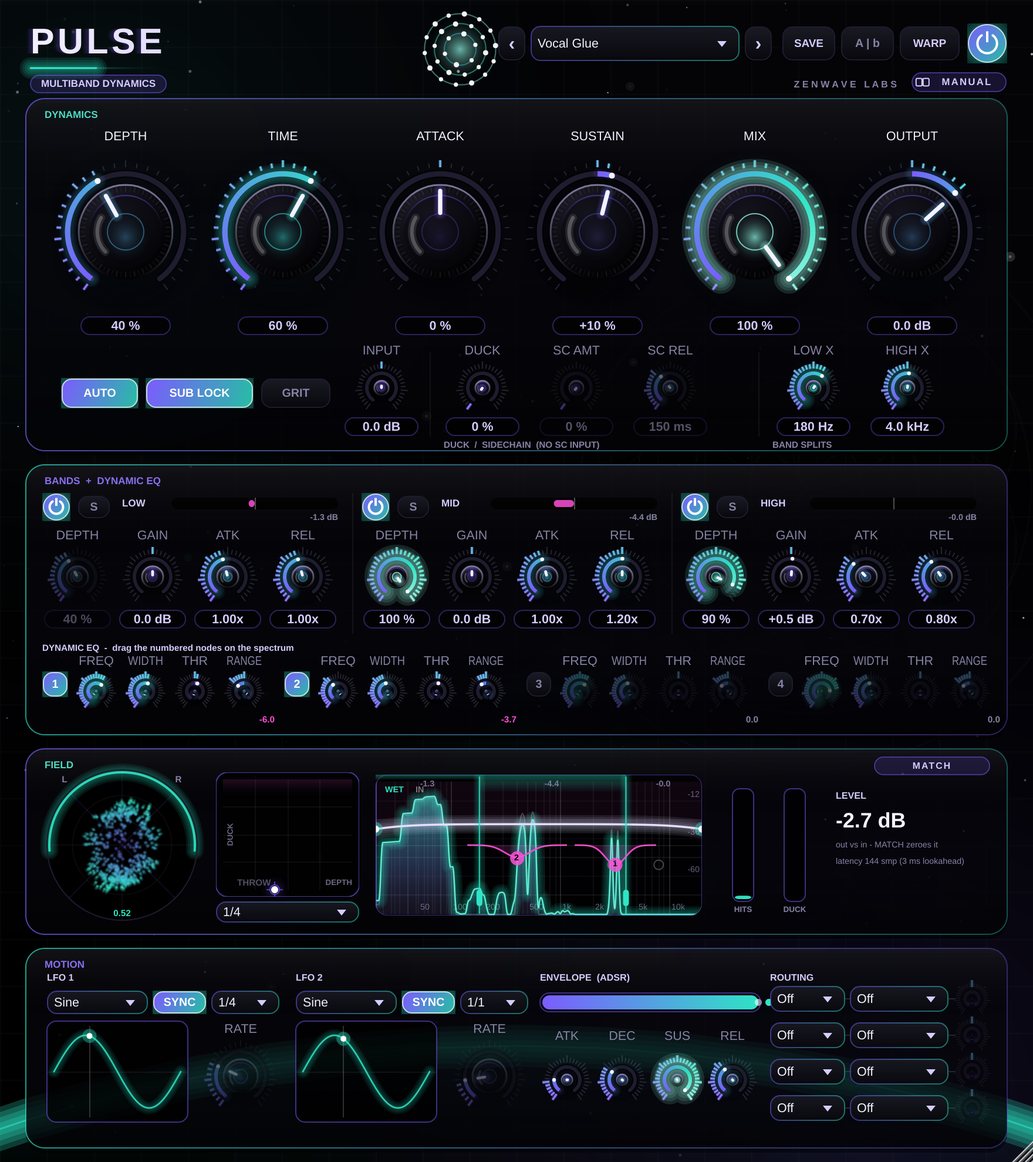
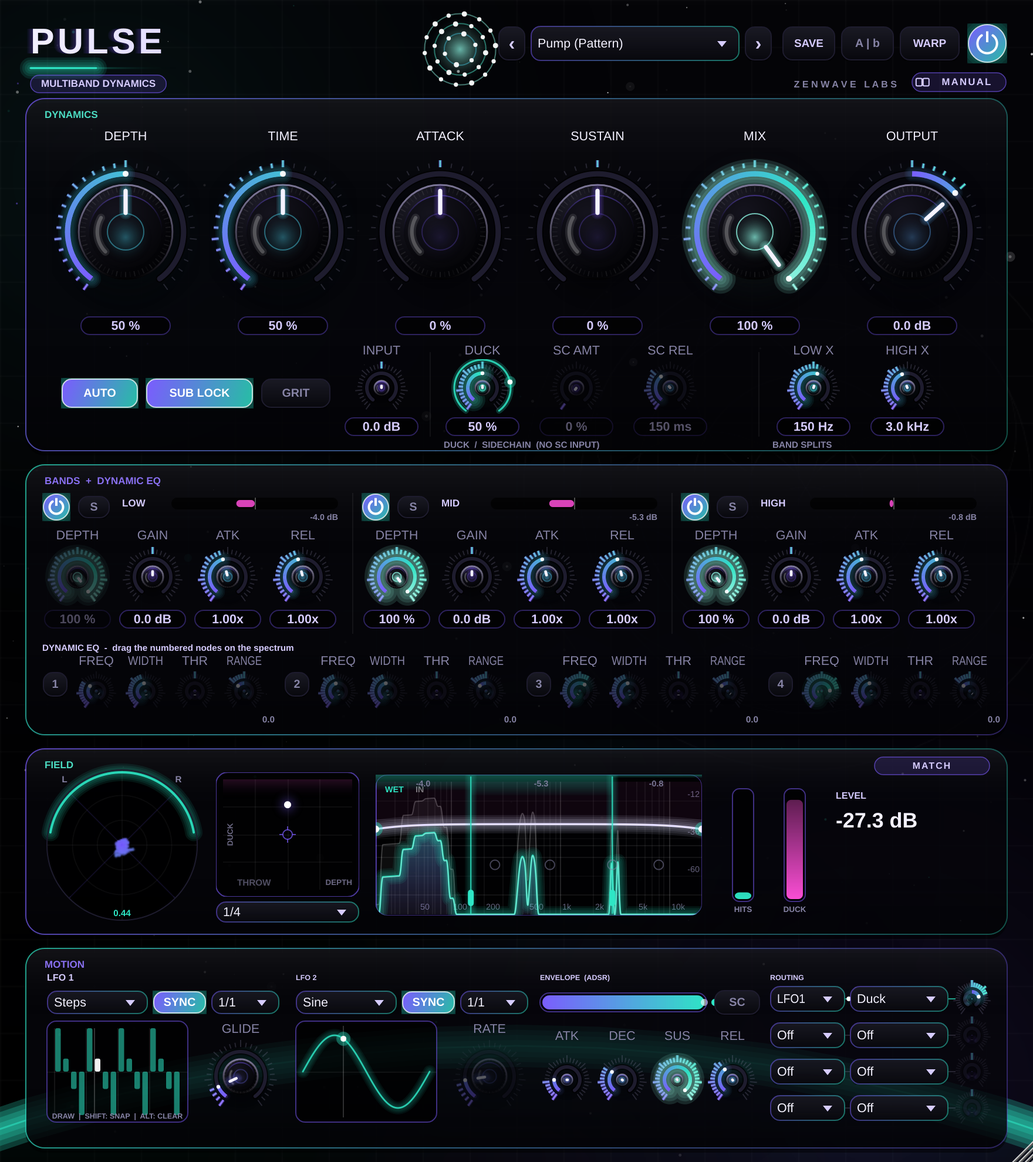
Sidechain input on every plugin; knobs pulse with modulation; Pulse LEVEL cleanup
- Drift, Umbra, Core now have a Sidechain bus (Pulse already did)
- Motion envelope: SC toggle switches its source to the sidechain input, so another track can drive
  any routed knob; status text shows SC CONNECTED / NO SC INPUT
- Umbra: with SC on, DUCK and BLOOM follow the sidechain instead of the dry input
- Knob halo / reactor core / arc glow follow the modulated value when a knob is a live target
- Pulse: removed the helper lines under LEVEL
- QA + tests pass on all four

Claude-Session: https://claude.ai/code/session_017QkTniK1NEuAZXzt6zeDH9

diff --git a/libs/zenwave_ui/include/zenwave_ui/Modulation.h b/libs/zenwave_ui/include/zenwave_ui/Modulation.h
@@ -23,6 +23,7 @@ struct ModIDs
     static constexpr auto envDecay   = "envdecay";
     static constexpr auto envSustain = "envsustain";
     static constexpr auto envRelease = "envrelease";
+    static constexpr auto envSource  = "envsource";   // 0 = this plugin's input, 1 = sidechain input
     static juce::String slotSrc(int i) { return "mod" + juce::String(i + 1) + "src"; }
     static juce::String slotDst(int i) { return "mod" + juce::String(i + 1) + "dst"; }
     static juce::String slotAmt(int i) { return "mod" + juce::String(i + 1) + "amt"; }
@@ -54,6 +55,7 @@ inline void addModParams(std::vector<std::unique_ptr<juce::RangedAudioParameter>
     auto ms = [](float v, int) { return v < 100.0f ? juce::String(v, 1) + " ms" : juce::String(juce::roundToInt(v)) + " ms"; };
     params.push_back(std::make_unique<P>(juce::ParameterID{ ModIDs::envAttack, 1 }, "Env Attack", Rng{ 0.5f, 500.0f, 0.1f, 0.4f }, 8.0f, juce::AudioParameterFloatAttributes().withStringFromValueFunction(ms)));
     params.push_back(std::make_unique<P>(juce::ParameterID{ ModIDs::envRelease, 1 }, "Env Release", Rng{ 10.0f, 2000.0f, 0.1f, 0.4f }, 180.0f, juce::AudioParameterFloatAttributes().withStringFromValueFunction(ms)));
+    params.push_back(std::make_unique<C>(juce::ParameterID{ ModIDs::envSource, 1 }, "Env Source", juce::StringArray{ "Input", "Sidechain" }, 0));
     params.push_back(std::make_unique<P>(juce::ParameterID{ ModIDs::envDecay, 1 }, "Env Decay", Rng{ 5.0f, 2000.0f, 0.1f, 0.4f }, 120.0f, juce::AudioParameterFloatAttributes().withStringFromValueFunction(ms)));
     params.push_back(std::make_unique<P>(juce::ParameterID{ ModIDs::envSustain, 1 }, "Env Sustain", Rng{ 0.0f, 1.0f, 0.001f }, 1.0f,
         juce::AudioParameterFloatAttributes().withStringFromValueFunction([](float v, int) { return juce::String(juce::roundToInt(v * 100)) + " %"; })));
@@ -128,6 +130,7 @@ public:
         }
         envAttack = apvts.getRawParameterValue(ModIDs::envAttack);
         envDecay = apvts.getRawParameterValue(ModIDs::envDecay);
+        envSource = apvts.getRawParameterValue(ModIDs::envSource);
         envSustain = apvts.getRawParameterValue(ModIDs::envSustain);
         envRelease = apvts.getRawParameterValue(ModIDs::envRelease);
         for (int i = 0; i < ModIDs::kSlots; ++i)
@@ -141,8 +144,12 @@ public:
     void prepare(double sampleRate) { sr = sampleRate; env = 0.0f; adsr = 0.0f; gate = false; stage = 0; slowPeak = 0.05f; for (auto& l : lfo) { l.phase = 0.0; l.rnd = 0.0f; l.rndTarget = 0.0f; l.rndPrev = 0.0f; } rng.setSeed(1234); }
 
     // Advance sources over one sub-block of input. ppq/playing come from the host transport.
-    void process(const float* inL, const float* inR, int n, double bpm, double ppq, bool playing)
+    // scL/scR: the plugin's sidechain input for this sub-block (null when none is connected).
+    void process(const float* inL, const float* inR, int n, double bpm, double ppq, bool playing,
+                 const float* scL = nullptr, const float* scR = nullptr)
     {
+        scPresent.store(scL != nullptr);
+        if (envSource->load() > 0.5f && scL != nullptr) { inL = scL; inR = scR ? scR : scL; }
         // Input-triggered ADSR: a fast peak follower, normalised by a slow running peak (so it self-adjusts to
         // any input level), opens a gate; the envelope then runs Attack -> Decay -> Sustain while the gate is
         // open and Release when it closes. Retriggers on new hits.
@@ -265,10 +272,11 @@ private:
     struct Lfo { std::atomic<float>* shape{}, * sync{}, * div{}, * rate{}; std::atomic<float>* stepP[ModIDs::kSteps] {}; std::atomic<float>* glideP{}; double phase = 0; float rnd = 0, rndTarget = 0, rndPrev = 0, smooth = 0; int cycleCount = 0; std::atomic<float> phaseVis { 0.0f }; std::atomic<int> stepVis { 0 }; };
     struct Slot { std::atomic<float>* src{}, * dst{}, * amt{}; };
     Lfo lfo[2]; Slot slot[ModIDs::kSlots];
-    std::atomic<float>* envAttack{}, * envRelease{}, * envDecay{}, * envSustain{};
+    std::atomic<float>* envAttack{}, * envRelease{}, * envDecay{}, * envSustain{}, * envSource{};
     float adsr = 0.0f, slowPeak = 0.05f; bool gate = false; int stage = 0;
 public:
-    std::atomic<bool> gateVis { false };
+    std::atomic<bool> gateVis { false }, scPresent { false };
+    bool usingSidechain() const { return envSource->load() > 0.5f; }
 private:
     std::array<juce::RangedAudioParameter*, kMaxTargets> target {};
     std::array<float, kMaxTargets> offset {}, plain {};

diff --git a/plugins/umbra/src/PluginProcessor.cpp b/plugins/umbra/src/PluginProcessor.cpp
@@ -13,7 +13,8 @@ static const char* kIds[23] = {
 UmbraAudioProcessor::UmbraAudioProcessor()
     : AudioProcessor(BusesProperties()
                          .withInput("Input", juce::AudioChannelSet::stereo(), true)
-                         .withOutput("Output", juce::AudioChannelSet::stereo(), true)),
+                         .withOutput("Output", juce::AudioChannelSet::stereo(), true)
+                         .withInput("Sidechain", juce::AudioChannelSet::stereo(), false)),
       apvts(*this, nullptr, "PARAMS", createLayout())
 {
     for (int i = 0; i < 23; ++i) p[i] = apvts.getRawParameterValue(kIds[i]);
@@ -103,7 +104,9 @@ bool UmbraAudioProcessor::isBusesLayoutSupported(const BusesLayout& layouts) con
     const auto& out = layouts.getMainOutputChannelSet();
     const auto& in  = layouts.getMainInputChannelSet();
     if (out != juce::AudioChannelSet::mono() && out != juce::AudioChannelSet::stereo()) return false;
-    return in == out || (in == juce::AudioChannelSet::mono() && out == juce::AudioChannelSet::stereo());
+    if (! (in == out || (in == juce::AudioChannelSet::mono() && out == juce::AudioChannelSet::stereo()))) return false;
+    const auto& sc = layouts.getChannelSet(true, 1);
+    return sc.isDisabled() || sc == juce::AudioChannelSet::mono() || sc == juce::AudioChannelSet::stereo();
 }
 
 void UmbraAudioProcessor::updateEngineParams()
@@ -133,12 +136,18 @@ void UmbraAudioProcessor::processBlock(juce::AudioBuffer<float>& buffer, juce::M
 {
     juce::ScopedNoDenormals noDenormals;
     hostBpm = zwui::readTransport(*this, motion, hostBpm);
+    const float* scL = nullptr; const float* scR = nullptr;
+    if (getBusCount(true) > 1 && getBus(true, 1)->isEnabled())
+    {
+        auto sc = getBusBuffer(buffer, true, 1);
+        if (sc.getNumChannels() > 0) { scL = sc.getReadPointer(0); scR = sc.getNumChannels() > 1 ? sc.getReadPointer(1) : scL; }
+    }
     meterIn.push(buffer, motion.levelIn);
     spectrumIn.push(buffer);
     const int n = buffer.getNumSamples();
-    const int numIn = getTotalNumInputChannels(), numOut = getTotalNumOutputChannels();
+    const int numIn = getMainBusNumInputChannels(), numOut = getTotalNumOutputChannels();
     power.begin(buffer, p[13]->load() > 0.5f);
-    if (power.skipProcessing()) { mod.process(buffer.getReadPointer(0), numIn > 1 ? buffer.getReadPointer(1) : nullptr, n, hostBpm, motion.ppq.load(), motion.playing.load()); updateEngineParams(); motion.levelOut.store(0.0f); return; }
+    if (power.skipProcessing()) { mod.process(buffer.getReadPointer(0), numIn > 1 ? buffer.getReadPointer(1) : nullptr, n, hostBpm, motion.ppq.load(), motion.playing.load(), scL, scR); updateEngineParams(); motion.levelOut.store(0.0f); return; }
     if (numOut >= 2 && numIn == 1) buffer.copyFrom(1, 0, buffer, 0, 0, n);
 
     constexpr int kSub = 64;
@@ -147,7 +156,7 @@ void UmbraAudioProcessor::processBlock(juce::AudioBuffer<float>& buffer, juce::M
     for (int start = 0; start < n; start += kSub)
     {
         const int len = juce::jmin(kSub, n - start);
-        mod.process(buffer.getReadPointer(0, start), numOut >= 2 ? buffer.getReadPointer(1, start) : nullptr, len, hostBpm, ppq, playing);
+        mod.process(buffer.getReadPointer(0, start), numOut >= 2 ? buffer.getReadPointer(1, start) : nullptr, len, hostBpm, ppq, playing, scL ? scL + start : nullptr, scR ? scR + start : nullptr);
         pad.process(len, hostBpm);
         {
             const double ppqEnd = playing ? ppq + len / currentSampleRate * hostBpm / 60.0 : ppq;
@@ -156,7 +165,8 @@ void UmbraAudioProcessor::processBlock(juce::AudioBuffer<float>& buffer, juce::M
         }
         updateEngineParams();
         if (wetScratch.getNumSamples() >= n) engine.setWetTap(wetScratch.getWritePointer(0, start), wetScratch.getWritePointer(1, start));
-        if (numOut >= 2) engine.process(buffer.getWritePointer(0, start), buffer.getWritePointer(1, start), len);
+        const bool scDuck = mod.usingSidechain() && scL != nullptr;
+        if (numOut >= 2) engine.process(buffer.getWritePointer(0, start), buffer.getWritePointer(1, start), len, scDuck ? scL + start : nullptr, scDuck ? scR + start : nullptr);
         else if (numOut == 1) engine.processMono(buffer.getWritePointer(0, start), len);
         engine.setWetTap(nullptr, nullptr);
         if (playing) ppq += len / currentSampleRate * hostBpm / 60.0;

diff --git a/plugins/core/src/PluginProcessor.cpp b/plugins/core/src/PluginProcessor.cpp
@@ -6,7 +6,8 @@ using APVTS = juce::AudioProcessorValueTreeState;
 CoreAudioProcessor::CoreAudioProcessor()
     : AudioProcessor(BusesProperties()
                          .withInput("Input", juce::AudioChannelSet::stereo(), true)
-                         .withOutput("Output", juce::AudioChannelSet::stereo(), true)),
+                         .withOutput("Output", juce::AudioChannelSet::stereo(), true)
+                         .withInput("Sidechain", juce::AudioChannelSet::stereo(), false)),
       apvts(*this, nullptr, "PARAMS", createLayout())
 {
     pOutput = apvts.getRawParameterValue(ParamIDs::output);
@@ -117,7 +118,9 @@ bool CoreAudioProcessor::isBusesLayoutSupported(const BusesLayout& layouts) cons
     const auto& out = layouts.getMainOutputChannelSet();
     const auto& in  = layouts.getMainInputChannelSet();
     if (out != juce::AudioChannelSet::mono() && out != juce::AudioChannelSet::stereo()) return false;
-    return in == out || (in == juce::AudioChannelSet::mono() && out == juce::AudioChannelSet::stereo());
+    if (! (in == out || (in == juce::AudioChannelSet::mono() && out == juce::AudioChannelSet::stereo()))) return false;
+    const auto& sc = layouts.getChannelSet(true, 1);
+    return sc.isDisabled() || sc == juce::AudioChannelSet::mono() || sc == juce::AudioChannelSet::stereo();
 }
 
 void CoreAudioProcessor::updateEngineParams()
@@ -155,12 +158,18 @@ void CoreAudioProcessor::processBlock(juce::AudioBuffer<float>& buffer, juce::Mi
 {
     juce::ScopedNoDenormals noDenormals;
     hostBpm = zwui::readTransport(*this, motion, hostBpm);
+    const float* scL = nullptr; const float* scR = nullptr;
+    if (getBusCount(true) > 1 && getBus(true, 1)->isEnabled())
+    {
+        auto sc = getBusBuffer(buffer, true, 1);
+        if (sc.getNumChannels() > 0) { scL = sc.getReadPointer(0); scR = sc.getNumChannels() > 1 ? sc.getReadPointer(1) : scL; }
+    }
     meterIn.push(buffer, motion.levelIn);
     spectrumIn.push(buffer);
     const int n = buffer.getNumSamples();
-    const int numIn = getTotalNumInputChannels(), numOut = getTotalNumOutputChannels();
+    const int numIn = getMainBusNumInputChannels(), numOut = getTotalNumOutputChannels();
     power.begin(buffer, pPower->load() > 0.5f);
-    if (power.skipProcessing()) { mod.process(buffer.getReadPointer(0), numIn > 1 ? buffer.getReadPointer(1) : nullptr, n, hostBpm, motion.ppq.load(), motion.playing.load()); updateEngineParams(); motion.levelOut.store(0.0f); return; }
+    if (power.skipProcessing()) { mod.process(buffer.getReadPointer(0), numIn > 1 ? buffer.getReadPointer(1) : nullptr, n, hostBpm, motion.ppq.load(), motion.playing.load(), scL, scR); updateEngineParams(); motion.levelOut.store(0.0f); return; }
     if (numOut >= 2 && numIn == 1) buffer.copyFrom(1, 0, buffer, 0, 0, n);
 
     constexpr int kSub = 64;
@@ -169,7 +178,7 @@ void CoreAudioProcessor::processBlock(juce::AudioBuffer<float>& buffer, juce::Mi
     for (int start = 0; start < n; start += kSub)
     {
         const int len = juce::jmin(kSub, n - start);
-        mod.process(buffer.getReadPointer(0, start), numOut >= 2 ? buffer.getReadPointer(1, start) : nullptr, len, hostBpm, ppq, playing);
+        mod.process(buffer.getReadPointer(0, start), numOut >= 2 ? buffer.getReadPointer(1, start) : nullptr, len, hostBpm, ppq, playing, scL ? scL + start : nullptr, scR ? scR + start : nullptr);
         pad.process(len, hostBpm);
         updateEngineParams();
         if (wetScratch.getNumSamples() >= n) engine.setWetTap(wetScratch.getWritePointer(0, start), wetScratch.getWritePointer(1, start));

diff --git a/plugins/drift/src/PluginProcessor.cpp b/plugins/drift/src/PluginProcessor.cpp
@@ -7,7 +7,8 @@ using APVTS = juce::AudioProcessorValueTreeState;
 DriftAudioProcessor::DriftAudioProcessor()
     : AudioProcessor(BusesProperties()
                          .withInput("Input", juce::AudioChannelSet::stereo(), true)
-                         .withOutput("Output", juce::AudioChannelSet::stereo(), true)),
+                         .withOutput("Output", juce::AudioChannelSet::stereo(), true)
+                         .withInput("Sidechain", juce::AudioChannelSet::stereo(), false)),
       apvts(*this, nullptr, "PARAMS", createLayout())
 {
     pTime     = apvts.getRawParameterValue(ParamIDs::time);
@@ -137,7 +138,9 @@ bool DriftAudioProcessor::isBusesLayoutSupported(const BusesLayout& layouts) con
     const auto& out = layouts.getMainOutputChannelSet();
     const auto& in  = layouts.getMainInputChannelSet();
     if (out != juce::AudioChannelSet::mono() && out != juce::AudioChannelSet::stereo()) return false;
-    return in == out || (in == juce::AudioChannelSet::mono() && out == juce::AudioChannelSet::stereo());
+    if (! (in == out || (in == juce::AudioChannelSet::mono() && out == juce::AudioChannelSet::stereo()))) return false;
+    const auto& sc = layouts.getChannelSet(true, 1);
+    return sc.isDisabled() || sc == juce::AudioChannelSet::mono() || sc == juce::AudioChannelSet::stereo();
 }
 
 float DriftAudioProcessor::syncedTimeMs() const
@@ -198,15 +201,21 @@ void DriftAudioProcessor::processBlock(juce::AudioBuffer<float>& buffer, juce::M
     juce::ScopedNoDenormals noDenormals;
 
     hostBpm = zwui::readTransport(*this, motion, hostBpm);
+    const float* scL = nullptr; const float* scR = nullptr;
+    if (getBusCount(true) > 1 && getBus(true, 1)->isEnabled())
+    {
+        auto sc = getBusBuffer(buffer, true, 1);
+        if (sc.getNumChannels() > 0) { scL = sc.getReadPointer(0); scR = sc.getNumChannels() > 1 ? sc.getReadPointer(1) : scL; }
+    }
     meterIn.push(buffer, motion.levelIn);
     spectrumIn.push(buffer);
 
     const int n = buffer.getNumSamples();
-    const int numIn = getTotalNumInputChannels();
+    const int numIn = getMainBusNumInputChannels();
     const int numOut = getTotalNumOutputChannels();
 
     power.begin(buffer, pPower->load() > 0.5f);
-    if (power.skipProcessing()) { mod.process(buffer.getReadPointer(0), numIn > 1 ? buffer.getReadPointer(1) : nullptr, n, hostBpm, motion.ppq.load(), motion.playing.load()); updateEngineParams(); motion.levelOut.store(0.0f); return; }
+    if (power.skipProcessing()) { mod.process(buffer.getReadPointer(0), numIn > 1 ? buffer.getReadPointer(1) : nullptr, n, hostBpm, motion.ppq.load(), motion.playing.load(), scL, scR); updateEngineParams(); motion.levelOut.store(0.0f); return; }
 
     if (numOut >= 2 && numIn == 1) buffer.copyFrom(1, 0, buffer, 0, 0, n);
 
@@ -217,7 +226,7 @@ void DriftAudioProcessor::processBlock(juce::AudioBuffer<float>& buffer, juce::M
     for (int start = 0; start < n; start += kSub)
     {
         const int len = juce::jmin(kSub, n - start);
-        mod.process(buffer.getReadPointer(0, start), numOut >= 2 ? buffer.getReadPointer(1, start) : nullptr, len, hostBpm, ppq, playing);
+        mod.process(buffer.getReadPointer(0, start), numOut >= 2 ? buffer.getReadPointer(1, start) : nullptr, len, hostBpm, ppq, playing, scL ? scL + start : nullptr, scR ? scR + start : nullptr);
         pad.process(len, hostBpm);
         {
             const double ppqEnd = playing ? ppq + len / currentSampleRate * hostBpm / 60.0 : ppq;

diff --git a/libs/zenwave_ui/include/zenwave_ui/ModPanel.h b/libs/zenwave_ui/include/zenwave_ui/ModPanel.h
@@ -30,6 +30,9 @@ public:
             L.divAttach = std::make_unique<juce::AudioProcessorValueTreeState::ComboBoxAttachment>(apvts, ModIDs::lfoDiv(i), L.div);
             L.rate.init(*this, apvts, ModIDs::lfoRate(i).toRawUTF8(), "RATE", false, false);
         }
+        addAndMakeVisible(envSrc);
+        envSrc.setTooltip("SC: the envelope listens to the sidechain input instead of this plugin's own input. Route a kick or any other channel to the sidechain in your DAW and it can drive any knob here (and Umbra's DUCK).");
+        envSrcAttach = std::make_unique<juce::AudioProcessorValueTreeState::ButtonAttachment>(apvts, ModIDs::envSource, envSrc);
         attack.init(*this, apvts, ModIDs::envAttack, "ATK", false, false);
         decay.init(*this, apvts, ModIDs::envDecay, "DEC", false, false);
         sustain.init(*this, apvts, ModIDs::envSustain, "SUS", false, false);
@@ -100,7 +103,8 @@ public:
         const int ex = S(438);
         Knob* envK[4] = { &attack, &decay, &sustain, &release };
         for (int k = 0; k < 4; ++k) envK[k]->layout(ex + S(k * 47), S(82), S(46), S(60), S(11));
-        envMeter = juce::Rectangle<float>(float(ex), S(38.0f), S(188.0f), S(16.0f));
+        envMeter = juce::Rectangle<float>(float(ex), S(38.0f), S(142.0f), S(16.0f));
+        envSrc.setBounds(ex + S(148), S(35), S(40), S(22));
         for (int i = 0; i < ModIDs::kSlots; ++i)
         {
             auto& Sl = slot[i]; const int y = S(32 + i * 31);
@@ -139,6 +143,7 @@ public:
             drawLfoScope(g, L.scope, i, s);
         }
         g.setColour(lnf.accentHi); g.drawText("ENVELOPE  (ADSR)", envMeter.withY(18.0f * s).withHeight(14.0f * s), juce::Justification::centredLeft);
+        if (mod.usingSidechain()) { g.setColour(mod.scPresent.load() ? lnf.accent2 : Palette::magenta); g.setFont(juce::Font(juce::FontOptions(7.5f * s, juce::Font::bold))); g.drawText(mod.scPresent.load() ? "SC CONNECTED" : "NO SC INPUT", juce::Rectangle<float>(envMeter.getX() + 92.0f * s, 18.0f * s, 100.0f * s, 14.0f * s), juce::Justification::centredLeft); }
         drawEnvMeter(g, envMeter, s);
         g.setColour(lnf.accentHi); g.drawText("ROUTING", juce::Rectangle<float>(634.0f * s, 18.0f * s, 150.0f * s, 14.0f * s), juce::Justification::centredLeft);
         // slot connector lines: src → dst → amount, lit when active
@@ -242,6 +247,7 @@ private:
     struct SlotUI { juce::ComboBox src, dst; Knob amt; std::unique_ptr<juce::AudioProcessorValueTreeState::ComboBoxAttachment> srcAttach, dstAttach; };
     LfoUI lfo[2]; SlotUI slot[ModIDs::kSlots];
     Knob attack, decay, sustain, release;
+    juce::ToggleButton envSrc { "SC" }; std::unique_ptr<juce::AudioProcessorValueTreeState::ButtonAttachment> envSrcAttach;
     juce::Rectangle<float> envMeter;
     ModMatrix& mod; LookAndFeel& lnf; juce::AudioProcessorValueTreeState& state;
     int editing = -1; float sc = 1.0f;

diff --git a/libs/zenwave_ui/include/zenwave_ui/Manual.h b/libs/zenwave_ui/include/zenwave_ui/Manual.h
@@ -28,7 +28,7 @@ inline ManualSection motionSection()
     return { "MOTION", "Two LFOs and an envelope follower you can route to almost any knob. Modulated knobs show a range arc and a moving cyan dot.",
         { { "LFO 1 / LFO 2", "Shape: Sine, Triangle, Saw Up, Saw Down, Square, Random (stepped) and Drift (smooth random). SYNC locks the rate to the host tempo and phase - one cycle per division, lined up to the bar. Unsynced, RATE sets it in Hz (0.02-20)." },
           { "Steps (LFO shape)", "A 16-step lane you draw straight into the LFO display: drag to set each step (bipolar), Shift = quantise to quarters, Alt = clear. One pass = the LFO's division (1/1 = a step per 1/16). GLIDE slides steps into each other. Each LFO has its own lane, so LFO 1 can walk a vowel while LFO 2 chops the mix." },
-          { "ENVELOPE (ADSR)", "An envelope triggered by the input. The gate self-adjusts to your level - it opens on anything close to the recent loudest moment, so hits trigger and tails don't (the dot lights when it's open); then ATK rises to full, DEC falls to the SUS level while the sound keeps playing, and REL fades out when it stops. SUS 100 % with a short DEC feels like a classic follower; SUS 0 % turns every hit into a pluck-shaped sweep. The bar shows the live envelope." },
+          { "ENVELOPE (ADSR)", "An envelope triggered by the input. The gate self-adjusts to your level - it opens on anything close to the recent loudest moment, so hits trigger and tails don't (the dot lights when it's open); then ATK rises to full, DEC falls to the SUS level while the sound keeps playing, and REL fades out when it stops. SUS 100 % with a short DEC feels like a classic follower; SUS 0 % turns every hit into a pluck-shaped sweep. The bar shows the live envelope. IN / SC picks the source: SC listens to the plugin's sidechain input, so a kick on another track can duck the mix, open the decay or push the drive - route it to the sidechain in your DAW (Ableton: Audio From on the plugin's sidechain section)." },
           { "ROUTING", "Four slots: source -> target -> amount. The amount knob is bipolar: turn left for inverted modulation. LFOs swing +/- around the knob's position; ENV pushes it one way. Several slots can hit the same target - they add." },
           { "Tip", "Synced LFO on TIME (Drift) gives octave-locked pitch wobbles; Drift LFO on WIDTH or COLOR gives slow, living tails nobody can quite place." } } };
 }

diff --git a/plugins/pulse/src/PluginProcessor.cpp b/plugins/pulse/src/PluginProcessor.cpp
@@ -168,7 +168,7 @@ void PulseAudioProcessor::processBlock(juce::AudioBuffer<float>& buffer, juce::M
     { double e = 0; for (int c = 0; c < juce::jmin(2, numIn); ++c) { const float* d = main.getReadPointer(c); for (int i = 0; i < n; ++i) e += d[i] * d[i]; } inRms.store(float(std::sqrt(e / juce::jmax(1, n * juce::jmin(2, numIn))))); }
 
     power.begin(buffer, pPower->load() > 0.5f);
-    if (power.skipProcessing()) { mod.process(main.getReadPointer(0), numIn > 1 ? main.getReadPointer(1) : nullptr, n, hostBpm, motion.ppq.load(), motion.playing.load()); updateEngineParams(); motion.levelOut.store(0.0f); return; }
+    if (power.skipProcessing()) { mod.process(main.getReadPointer(0), numIn > 1 ? main.getReadPointer(1) : nullptr, n, hostBpm, motion.ppq.load(), motion.playing.load(), scL, scR); updateEngineParams(); motion.levelOut.store(0.0f); return; }
     if (numOut >= 2 && numIn == 1) buffer.copyFrom(1, 0, buffer, 0, 0, n);
 
     constexpr int kSub = 64;
@@ -177,7 +177,7 @@ void PulseAudioProcessor::processBlock(juce::AudioBuffer<float>& buffer, juce::M
     for (int start = 0; start < n; start += kSub)
     {
         const int len = juce::jmin(kSub, n - start);
-        mod.process(buffer.getReadPointer(0, start), numOut >= 2 ? buffer.getReadPointer(1, start) : nullptr, len, hostBpm, ppq, playing);
+        mod.process(buffer.getReadPointer(0, start), numOut >= 2 ? buffer.getReadPointer(1, start) : nullptr, len, hostBpm, ppq, playing, scL ? scL + start : nullptr, scR ? scR + start : nullptr);
         pad.process(len, hostBpm);
         updateEngineParams();
         if (wetScratch.getNumSamples() >= n) engine.setWetTap(wetScratch.getWritePointer(0, start), wetScratch.getWritePointer(1, start));

diff --git a/plugins/umbra/src/Manual.h b/plugins/umbra/src/Manual.h
@@ -32,7 +32,7 @@ namespace UmbraManual
               { "MOTION RATE", "Speed multiplier for that modulation (0.1-4x). Low = slow swirl, high = shimmer.", "motionrate" },
               { "GRAVITY", "Crossover from 40 to 300 Hz. Everything below it bypasses the reverb and stays dry and mono - this is what keeps drops clean. Raise it until the sub is untouched.", "gravity" },
               { "EARLY", "Level of early reflections - the first few bounces. More = a sense of walls and placement; less = pure tail.", "early" },
-              { "DUCK", "Sidechains the wet signal to the dry input. While the source plays the tail drops back; when it stops, the space swells up behind it. Great on vocals and leads.", "duck" },
+              { "DUCK", "Sidechains the wet signal to the dry input. While the source plays the tail drops back; when it stops, the space swells up behind it. Great on vocals and leads. Set the Motion envelope source to SC and DUCK (and BLOOM) follow the sidechain input instead - a kick on another track ducking the reverb bus.", "duck" },
               { "WIDTH", "Stereo width of the wet signal. 100 % = natural, up to 150 % = extra wide, 0 = mono.", "width" },
               { "OUTPUT", "Output trim, -24 to +12 dB.", "output" } } });
 

diff --git a/plugins/pulse/src/PluginEditor.cpp b/plugins/pulse/src/PluginEditor.cpp
@@ -237,9 +237,6 @@ void PulseAudioProcessorEditor::paint(juce::Graphics& g)
         g.drawText("LEVEL", juce::Rectangle<float>(712 * s, 672 * s, 130 * s, 12 * s), juce::Justification::centredLeft);
         g.setFont(juce::Font(juce::FontOptions(20.0f * s, juce::Font::bold))); g.setColour(std::abs(delta) < 1.0f ? lnf.accent2 : zwui::Palette::text);
         g.drawText((delta > 0 ? "+" : "") + juce::String(delta, 1) + " dB", juce::Rectangle<float>(712 * s, 686 * s, 130 * s, 26 * s), juce::Justification::centredLeft);
-        g.setFont(juce::Font(juce::FontOptions(8.0f * s))); g.setColour(zwui::Palette::dim);
-        g.drawText("out vs in - MATCH zeroes it", juce::Rectangle<float>(712 * s, 714 * s, 140 * s, 12 * s), juce::Justification::centredLeft);
-        g.drawText(juce::String("latency ") + juce::String(processor.getLatencySamples()) + " smp (3 ms lookahead)", juce::Rectangle<float>(712 * s, 728 * s, 140 * s, 12 * s), juce::Justification::centredLeft);
     }
     zwui::drawOrbit(g, { 392 * s, 42 * s }, 24 * s, processor.motion, lnf.accent, lnf.accent2);
 }

diff --git a/libs/zenwave_dsp/include/zenwave/UmbraEngine.h b/libs/zenwave_dsp/include/zenwave/UmbraEngine.h
@@ -121,7 +121,8 @@ public:
         }
     }
 
-    void process(float* L, float* R, int n) noexcept
+    // scL/scR (optional): external sidechain that drives DUCK and BLOOM instead of the dry input
+    void process(float* L, float* R, int n, const float* scL = nullptr, const float* scR = nullptr) noexcept
     {
         for (int i = 0; i < n; ++i)
         {
@@ -169,7 +170,7 @@ public:
             wetL = darken(0, wetL); wetR = darken(1, wetR);
 
             // Duck wet by dry level; Bloom pushes decay up with the same envelope
-            const float level = std::max(std::fabs(dryL), std::fabs(dryR));
+            const float level = scL ? std::max(std::fabs(scL[i]), std::fabs(scR ? scR[i] : scL[i])) : std::max(std::fabs(dryL), std::fabs(dryR));
             duckEnv += (level - duckEnv) * (level > duckEnv ? duckAttack : duckRelease);
             if (params.bloom > 0.001f && (++bloomCounter & 63) == 0)
                 reverb.setDecay(std::min(1.0f, baseDecay + params.bloom * 0.6f * std::min(1.0f, duckEnv * 2.5f)));

diff --git a/libs/zenwave_ui/include/zenwave_ui/ZenWaveUI.h b/libs/zenwave_ui/include/zenwave_ui/ZenWaveUI.h
@@ -106,7 +106,10 @@ public:
         const bool  hot   = s.isMouseOverOrDragging();
         const bool  bipolar = s.getMinimum() < 0.0 && s.getMaximum() > 0.0;
         const float from = bipolar ? (startAngle + endAngle) * 0.5f : startAngle;
-        const float amount = bipolar ? std::abs(pos - 0.5f) * 2.0f : pos;
+        // Glow follows the modulated value when the knob is a live modulation target, so it pulses with the motion
+        const float modPosEarly = float(s.getProperties().getWithDefault("modPos", -1.0f));
+        const float glowPos = modPosEarly >= 0.0f ? modPosEarly : pos;
+        const float amount = bipolar ? std::abs(glowPos - 0.5f) * 2.0f : glowPos;
         const float breathe = 1.0f + pulse * 0.35f * amount;
         const float glow = (0.25f + amount * 1.3f + (hot ? 0.5f : 0.0f)) * breathe;
         const auto col = aurora(amount, accent, accent2);
